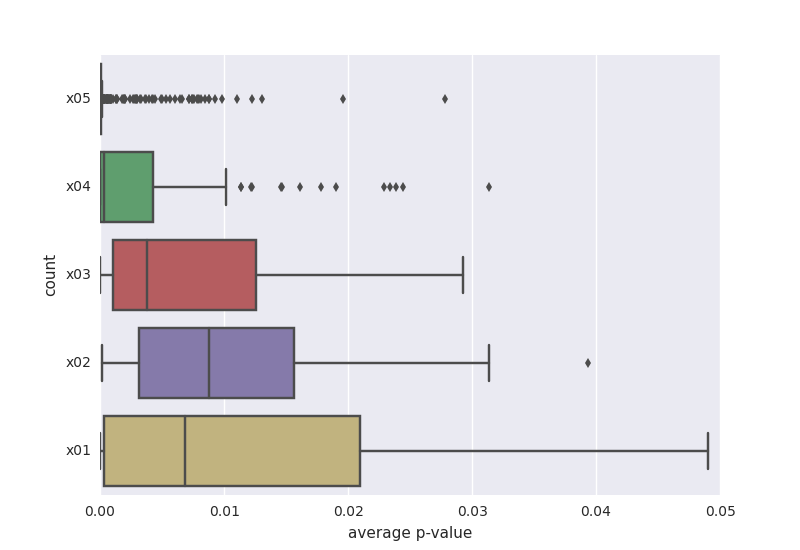
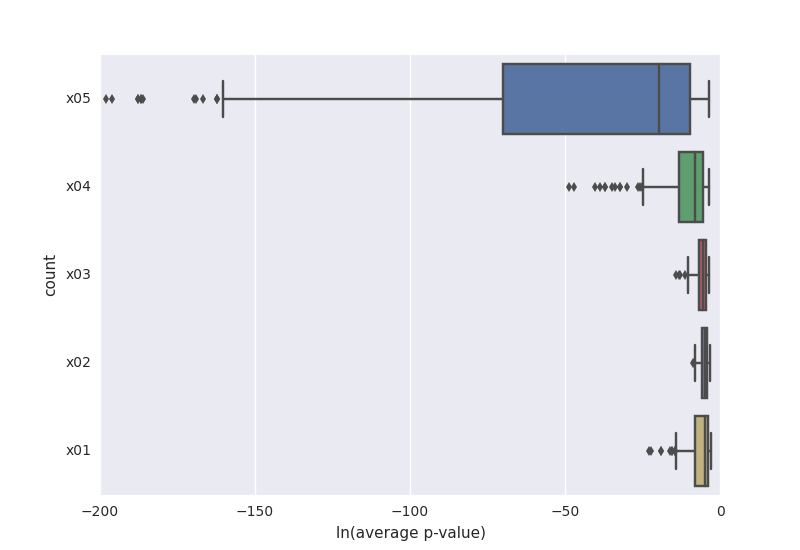
added log of p-value

diff --git a/scripts/13_create_boxplot.py b/scripts/13_create_boxplot.py
@@ -1,4 +1,5 @@
 from collections import defaultdict
+import math
 import matplotlib
 matplotlib.use('Agg')
 import matplotlib.pyplot as plt
@@ -36,8 +37,8 @@ for ID in p_values:
 IDs = sorted(sorted(labels.keys()), key=is_ER)
 
 count_strings = sorted(set(map(lambda ID: 'x' + str(counts[ID]).zfill(2), IDs)), reverse=True)
-data = pd.DataFrame.from_records(map(lambda ID: ('x' + str(counts[ID]).zfill(2), p_value_averages[ID]), IDs),
-                              columns=('count', 'average p-value'))
+data = pd.DataFrame.from_records(map(lambda ID: ('x' + str(counts[ID]).zfill(2), math.log(p_value_averages[ID])), IDs),
+                              columns=('count', 'ln(average p-value)'))
 
-sns.boxplot(x='average p-value', y='count', data=data, order=count_strings)
+sns.boxplot(x='ln(average p-value)', y='count', data=data, order=count_strings)
 plt.savefig('output/figures/boxplot.png')
